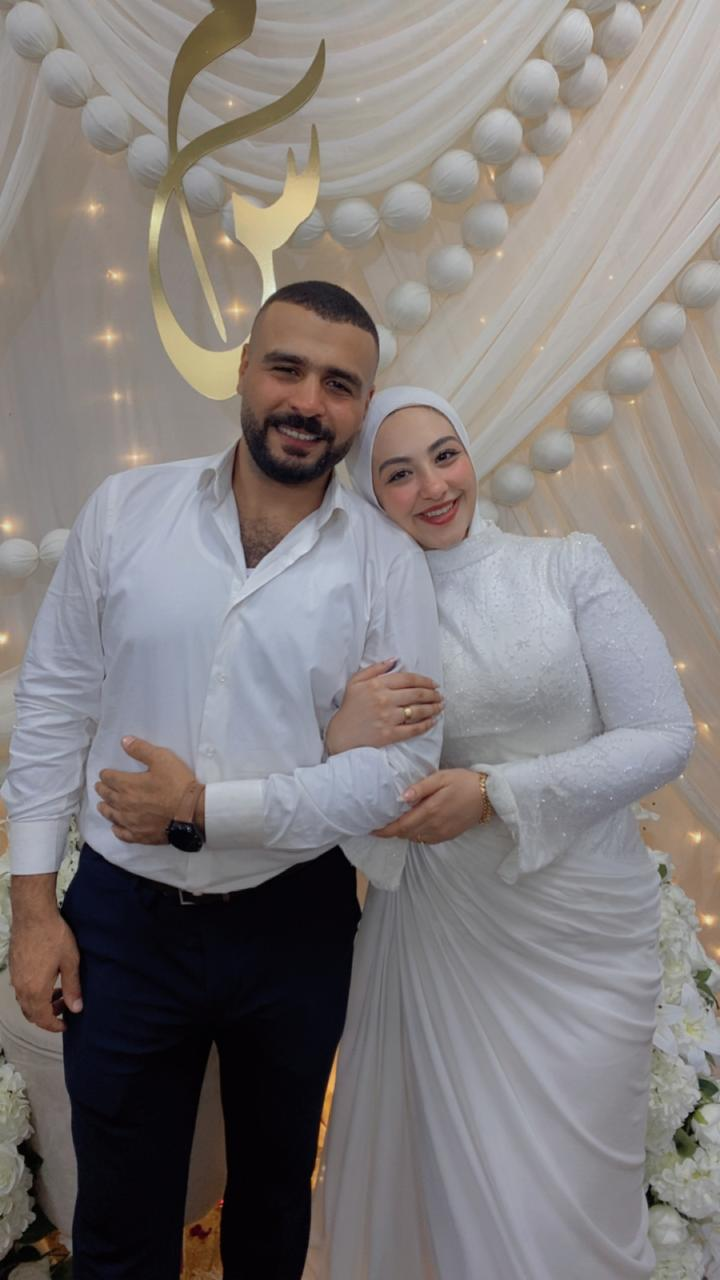
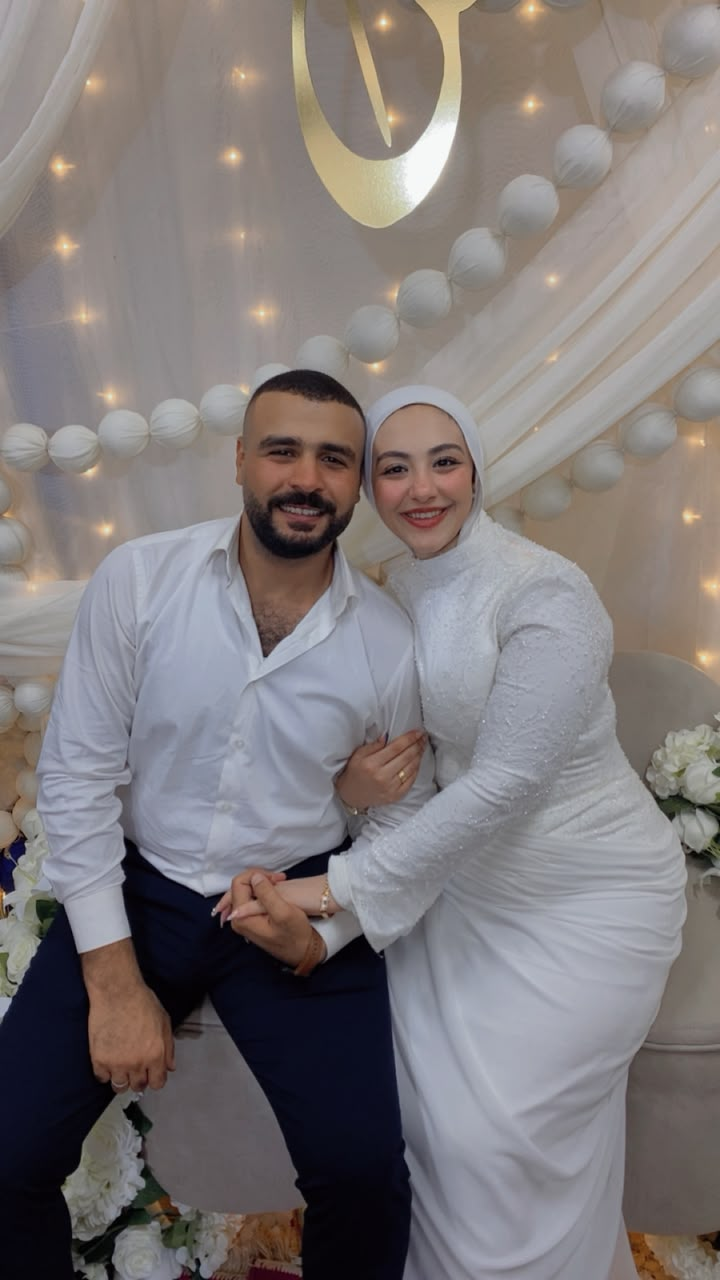
Add files via upload

diff --git a/index.html b/index.html
@@ -2781,7 +2781,7 @@ footer{
             <div class="story-photo">
 
                 <img
-                    src="./images/couple3.jpeg"
+                    src="./images/couple2.jpeg"
                     alt="Mostafa and Soaad"
                     loading="lazy"
                 >
